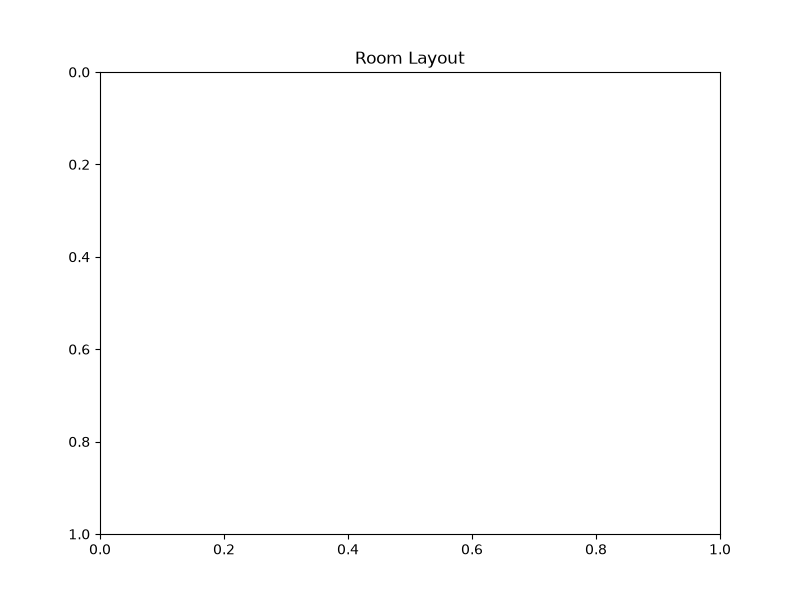
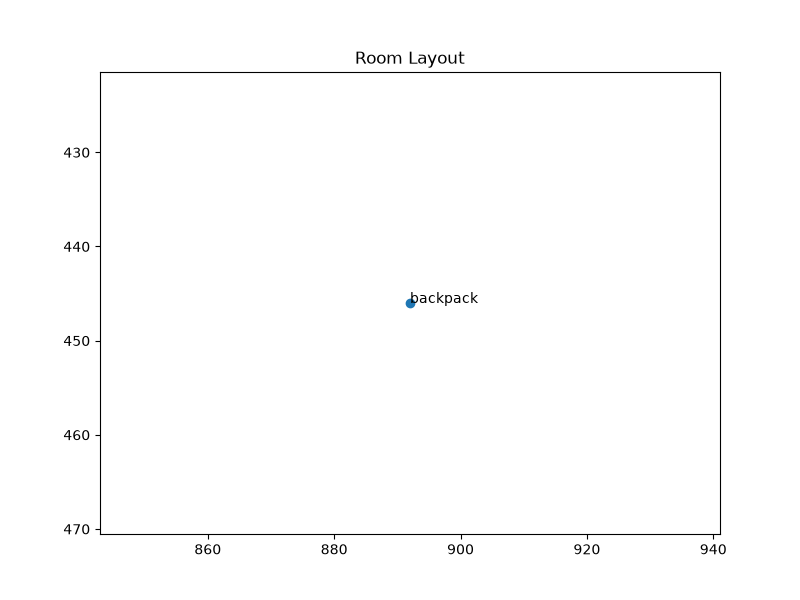
Sprint 5: Generate room layout from detected objects

diff --git a/frontend/src/App.jsx b/frontend/src/App.jsx
@@ -3,6 +3,7 @@ import { useState } from "react";
 function App() {
   const [file, setFile] = useState(null);
   const [preview, setPreview] = useState(null);
+  const [objects, setObjects] = useState([]);
 
   const handleFileChange = (e) => {
     const selected = e.target.files[0];
@@ -31,6 +32,25 @@ function App() {
     alert(data.message);
   };
 
+  const analyzeImage = async () => {
+  if (!file) {
+    alert("Select an image first");
+    return;
+  }
+
+  const formData = new FormData();
+  formData.append("file", file);
+
+  const response = await fetch("http://127.0.0.1:8000/analyze", {
+    method: "POST",
+    body: formData,
+  });
+
+  const data = await response.json();
+
+  setObjects(data.objects);
+};
+
   return (
     <div style={{ padding: "30px" }}>
       <h1>AI Interior Designer</h1>
@@ -56,6 +76,16 @@ function App() {
       <button onClick={uploadImage}>
         Upload Image
       </button>
+      <button onClick={analyzeImage}>
+        Analyze Room
+      </button>
+      <h2>Detected Objects</h2>
+
+<ul>
+  {objects.map((obj, index) => (
+    <li key={index}>{obj.name}</li>
+  ))}
+</ul>
     </div>
   );
 }